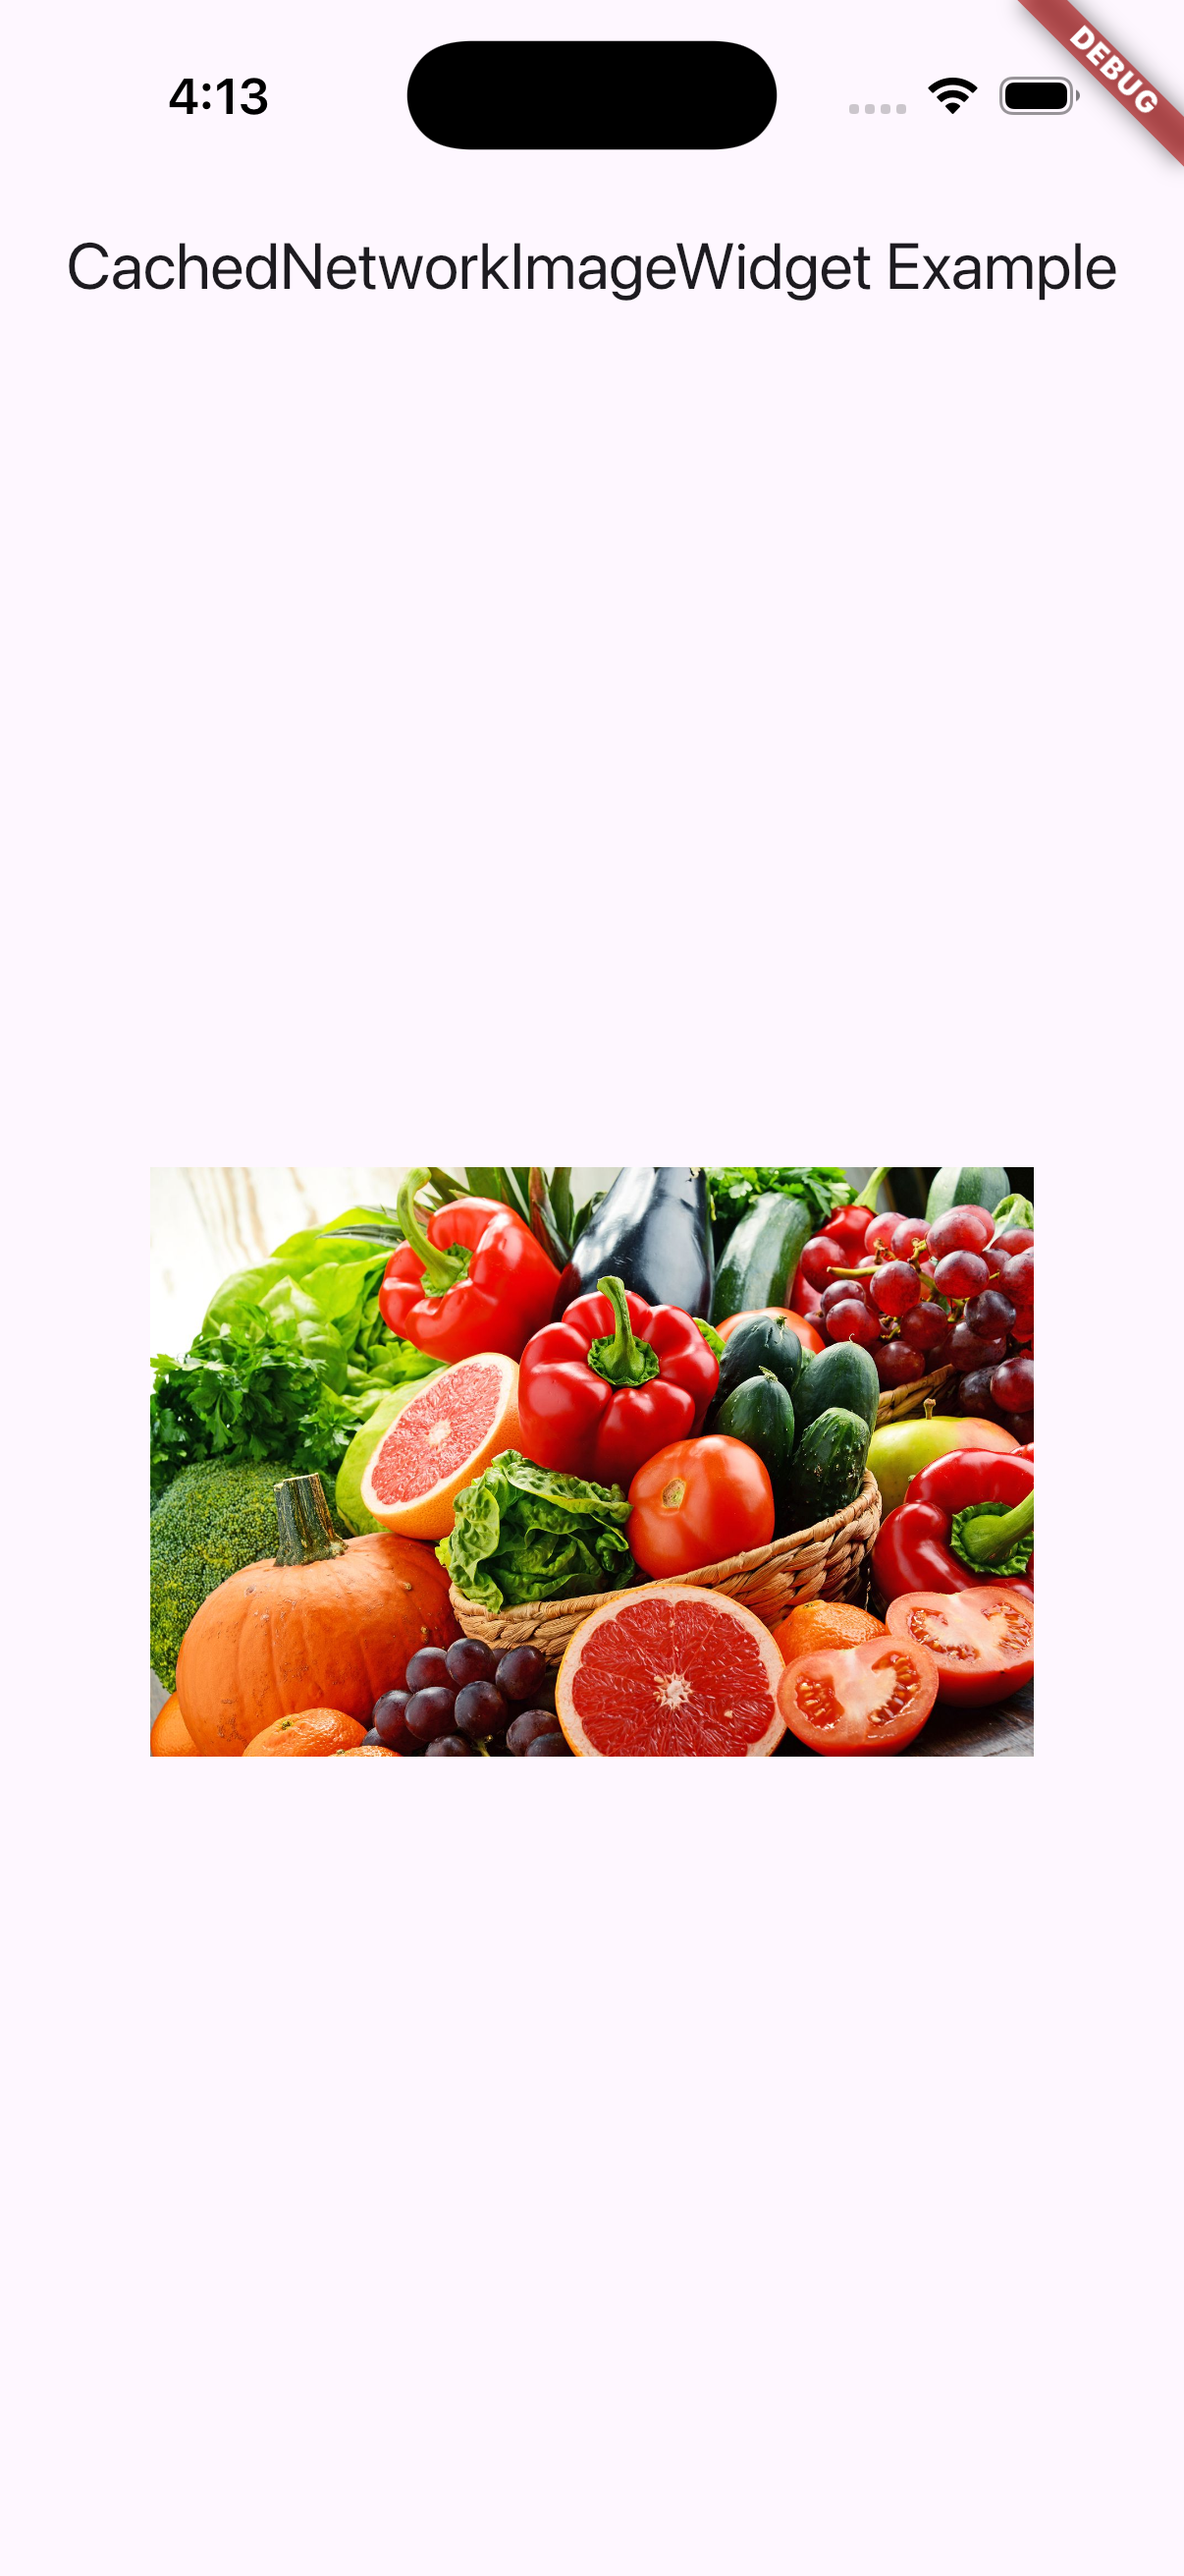
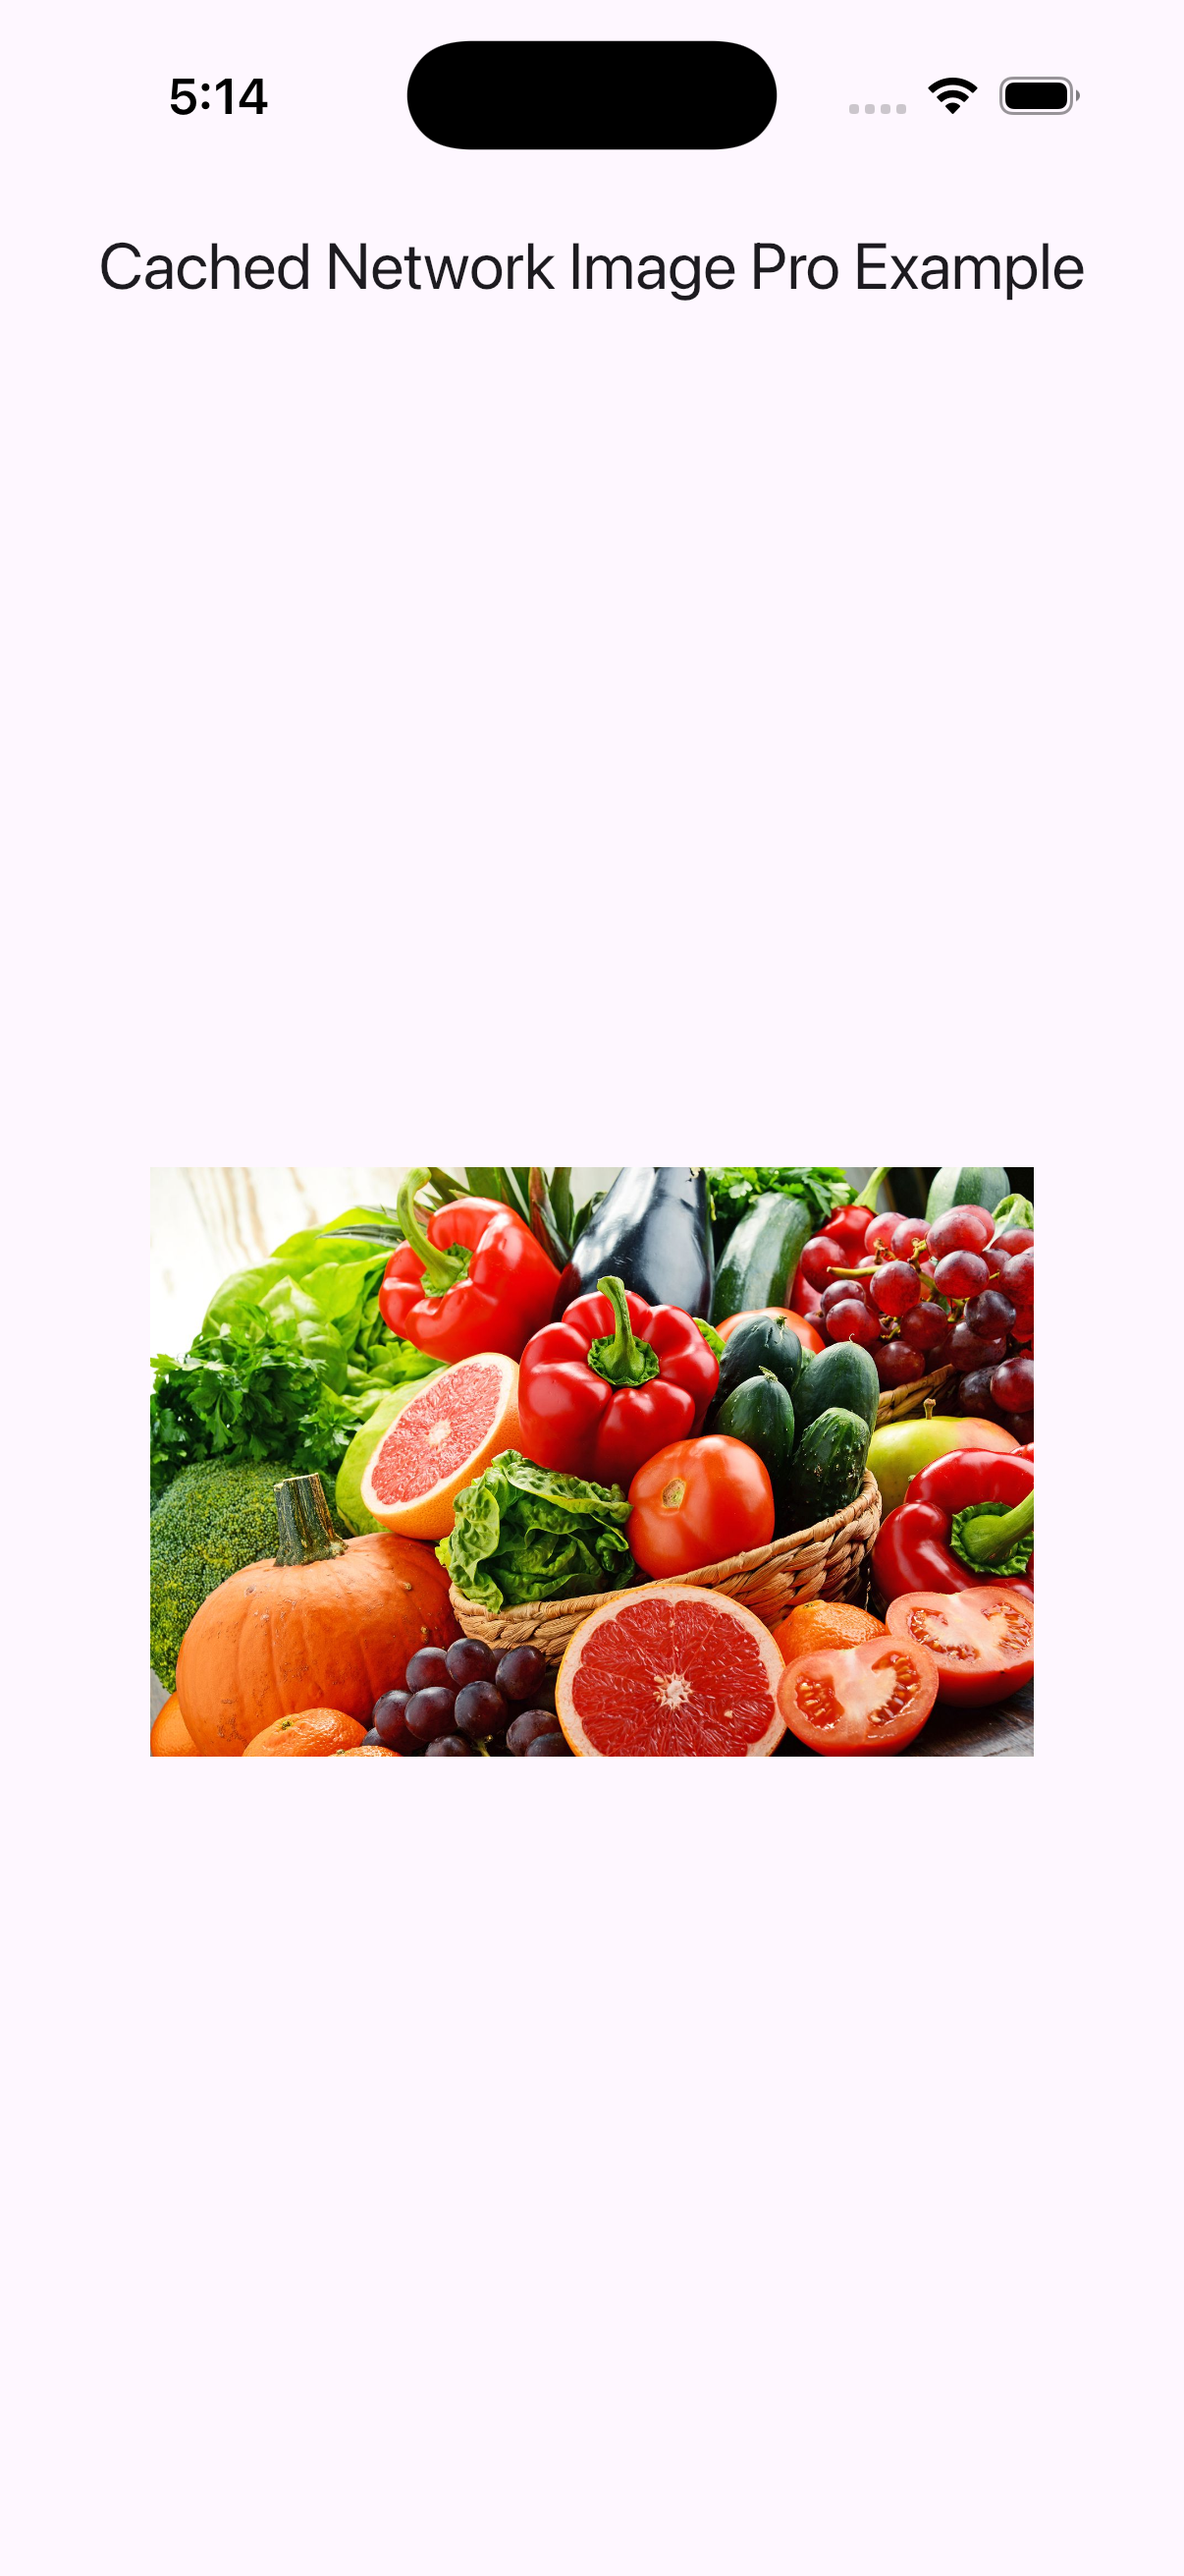
Update README with proper description

Changed region(s): [[0.0614, 0.0927, 0.9511, 0.1236], [0.859, 0.0, 1.0, 0.0618], [0.1534, 0.0309, 0.2148, 0.0618]]

diff --git a/example/lib/main.dart b/example/lib/main.dart
@@ -11,7 +11,7 @@ class MyApp extends StatelessWidget {
   @override
   Widget build(BuildContext context) {
     return Scaffold(
-      appBar: AppBar(title: Text("CachedNetworkImageWidget")),
+      appBar: AppBar(title: Text("Cached Network Image Pro Example")),
       body: Column(
         mainAxisAlignment: MainAxisAlignment.center,
         children: [
